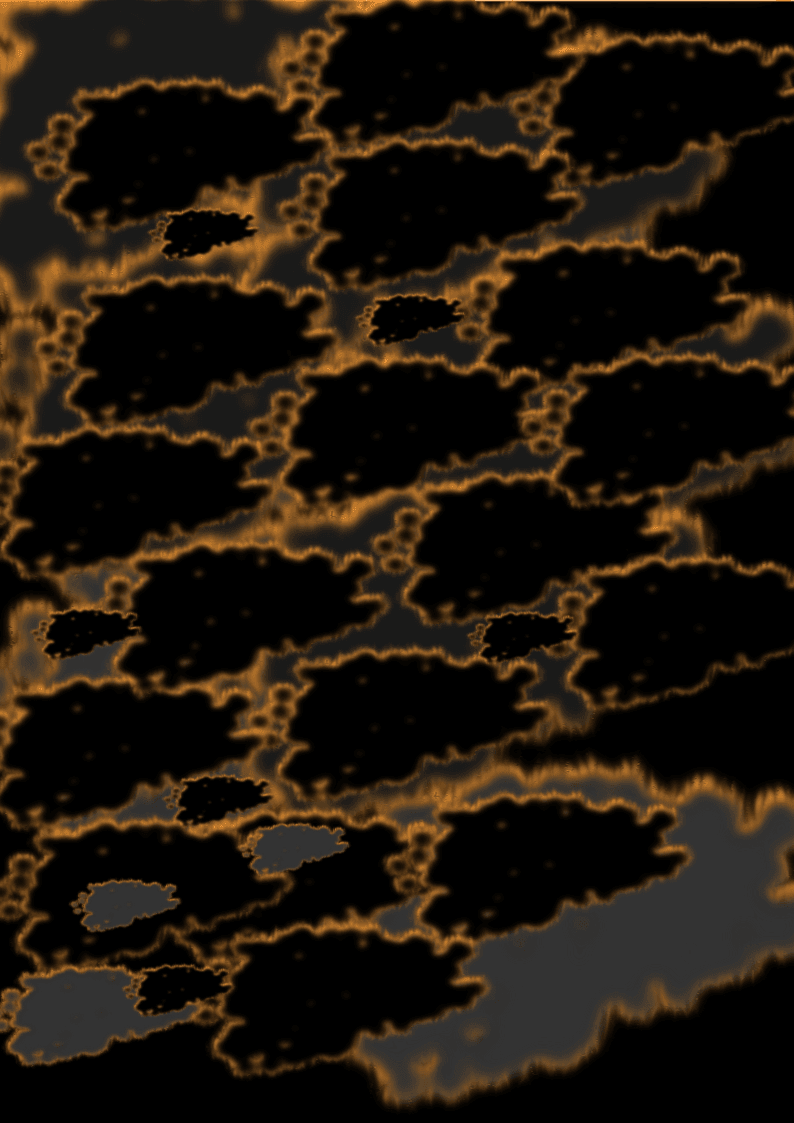
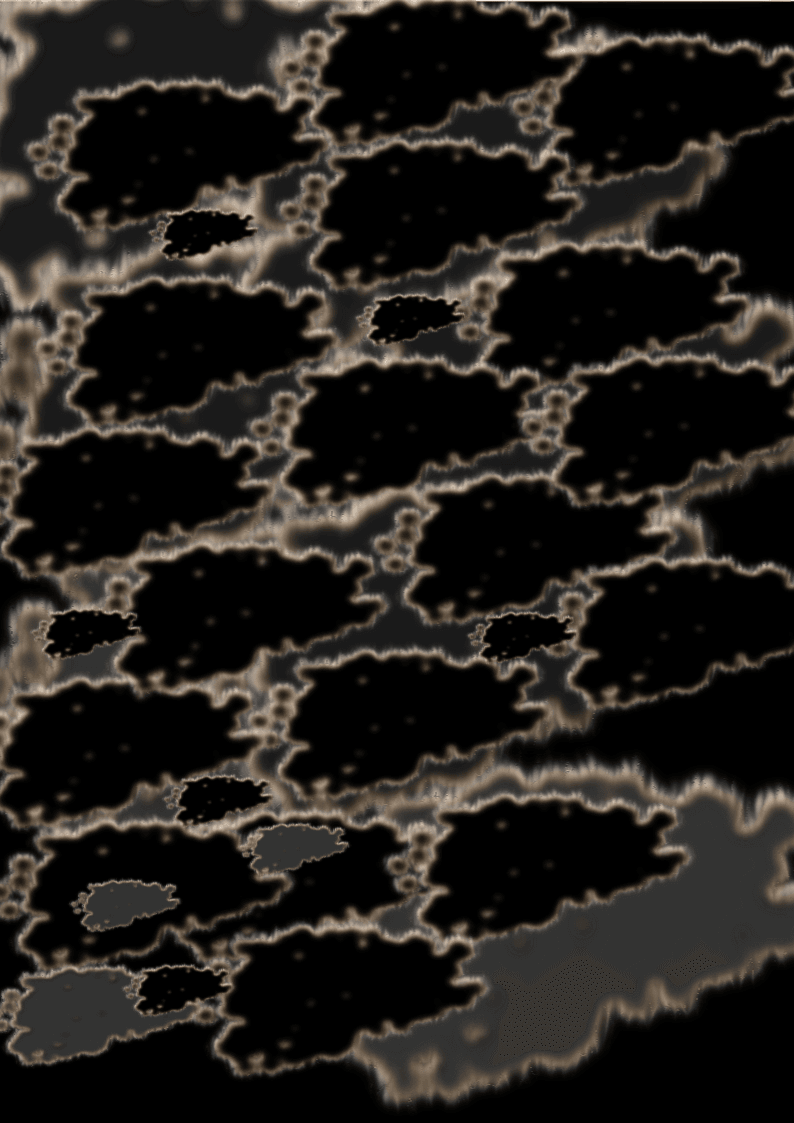
img changes

Changed region(s): [[0.0, 0.0, 1.0, 0.9973], [0.9068, 0.8415, 0.9975, 0.8727], [0.272, 0.0, 0.3023, 0.0312]]

diff --git a/style.css b/style.css
@@ -225,7 +225,7 @@ div.storm2{
 	position: absolute;
 	top: 0;
 	left: 0;
-	background-image: url(images/StormNight2.svg);
+	background-image: url(images/StormNight2-compressor.png);
 	background-repeat: no-repeat;
 	background-size: cover;
 	height: 100vh;
